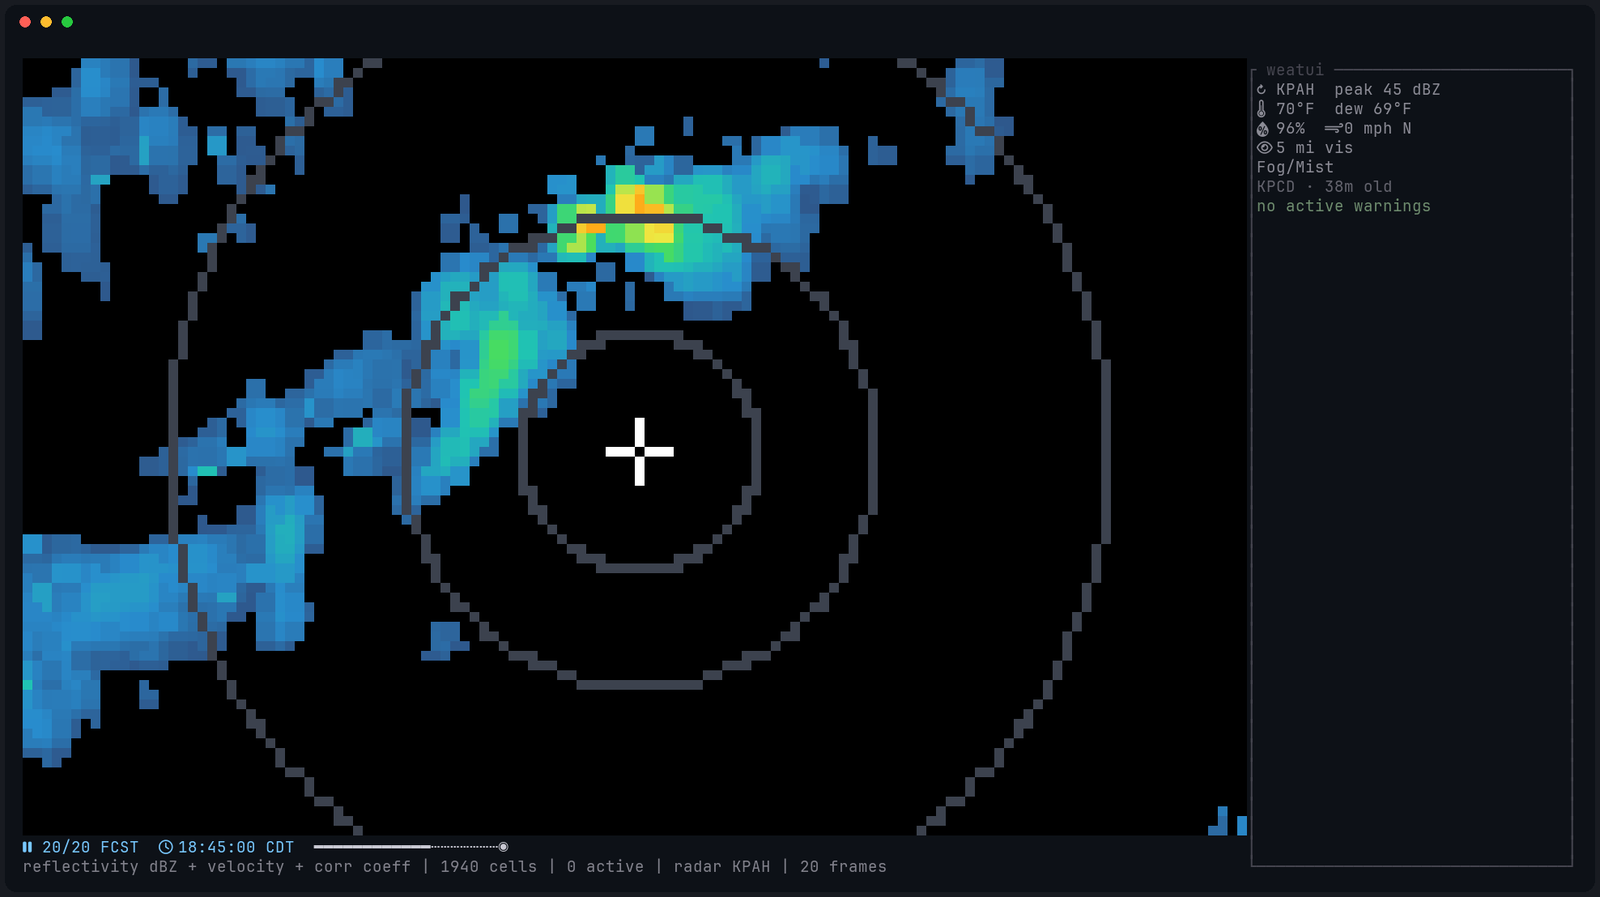
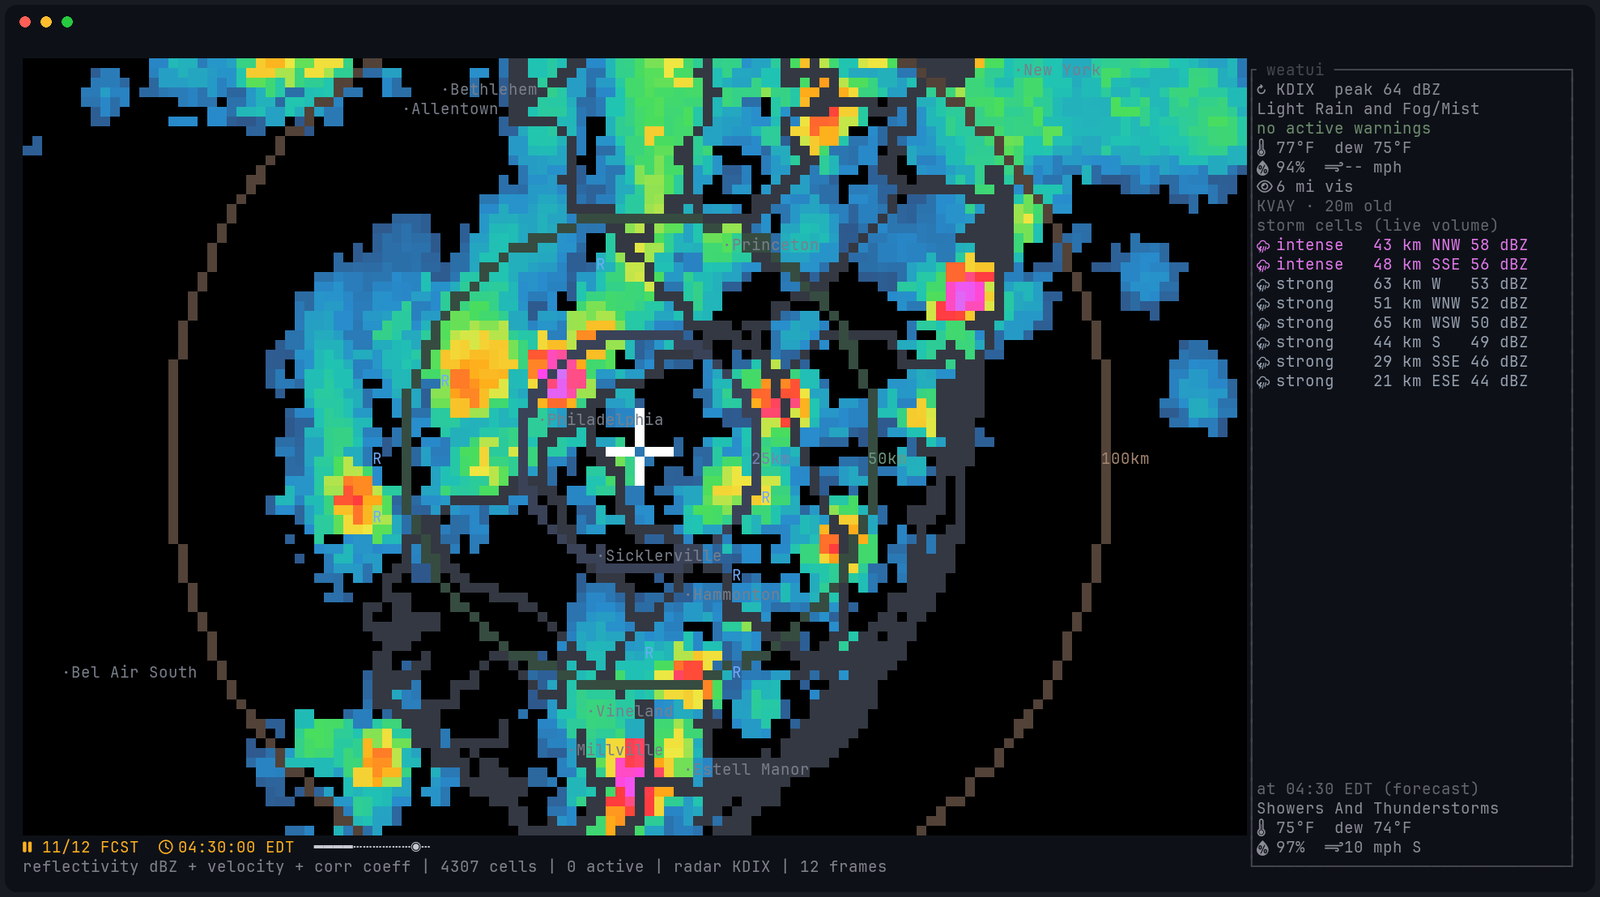
Distance ring colors and labels, ring_km config, recenter, map and hazard screenshots. CLAUDE IS SUPER GAY

diff --git a/src/tui.rs b/src/tui.rs
@@ -11,8 +11,7 @@ use crate::radar::{DbzGrid, RadarField, RadarProduct, fetch};
 use crate::render::colormap::product_rgb;
 use crate::render::hud::Hud;
 use crate::render::overlay::{
-    COUNTY_BORDER, HOME_MARKER, LETHAL_OUTLINE, PixelOverlay, DISTANCE_RING, SEVERE_OUTLINE,
-    WATCH_OUTLINE,
+    COUNTY_BORDER, HOME_MARKER, LETHAL_OUTLINE, PixelOverlay, SEVERE_OUTLINE, WATCH_OUTLINE,
 };
 use crate::render::raster::RadarRaster;
 use crate::render::timeline::Timeline;
@@ -32,7 +31,6 @@ const MIN_SPAN_KM: f64 = 20.0;
 const MAX_SPAN_KM: f64 = 900.0;
 const DEFAULT_SPAN_KM: f64 = 260.0;
 const HUD_WIDTH: u16 = 34;
-const DISTANCE_RING_KM: &[f64] = &[25.0, 50.0, 100.0];
 /// Fetched forecast steps plus the motion-interpolated fill frames between
 /// them: 18 hourly steps synthesize 3 extras per gap.
 const MAX_FORECAST_FRAMES: usize = 72;
@@ -61,7 +59,7 @@ const HELP: &str = "\
    h j k l    pan west/south/north/east
    C-d C-u    pan half a screen
    zi zo      zoom in / out
-   gh         recentre on home
+   gh         recenter on home
 
  TIMELINE
    [ ]        previous / next frame
@@ -146,7 +144,7 @@ pub enum Action {
     PanHalfUp,
     ZoomIn,
     ZoomOut,
-    RecentreHome,
+    RecenterHome,
     FrameBack,
     FrameForward,
     JumpOldest,
@@ -165,7 +163,7 @@ pub fn resolve_key(pending: &mut Option<char>, key: KeyEvent) -> Action {
     if let Some(prefix) = pending.take() {
         return match (prefix, key.code) {
             ('g', KeyCode::Char('g')) => Action::JumpOldest,
-            ('g', KeyCode::Char('h')) => Action::RecentreHome,
+            ('g', KeyCode::Char('h')) => Action::RecenterHome,
             ('z', KeyCode::Char('i')) => Action::ZoomIn,
             ('z', KeyCode::Char('o')) => Action::ZoomOut,
             ('Z', KeyCode::Char('Z')) => Action::Quit,
@@ -222,6 +220,7 @@ pub struct App {
     temp_limits: (f32, f32),
     show_map: bool,
     show_labels: bool,
+    ring_km: Vec<f64>,
     counties: Option<crate::counties::CountyMap>,
     tz: chrono_tz::Tz,
     pending: Option<char>,
@@ -264,6 +263,7 @@ impl App {
             temp_limits: (cfg.render.cold_below_f, cfg.render.hot_above_f),
             show_map: cfg.render.map,
             show_labels: cfg.render.labels,
+            ring_km: cfg.render.ring_km.clone(),
             counties: None,
             tz,
             pending: None,
@@ -302,7 +302,7 @@ impl App {
             Action::PanHalfDown => self.viewport = self.viewport.panned_km(0.0, -step * 4.0),
             Action::ZoomIn => self.viewport = self.viewport.zoomed(0.5, MIN_SPAN_KM, MAX_SPAN_KM),
             Action::ZoomOut => self.viewport = self.viewport.zoomed(2.0, MIN_SPAN_KM, MAX_SPAN_KM),
-            Action::RecentreHome => self.viewport.centre = self.home,
+            Action::RecenterHome => self.viewport.centre = self.home,
             Action::FrameBack => self.ring.step_back(),
             Action::FrameForward => self.ring.step_forward(),
             Action::JumpOldest => self.ring.jump_oldest(),
@@ -517,7 +517,7 @@ impl App {
                 overlay.draw_ring(ring, &self.viewport, COUNTY_BORDER);
             }
         }
-        overlay.draw_distance_rings(self.home, DISTANCE_RING_KM, &self.viewport, DISTANCE_RING);
+        overlay.draw_distance_rings(self.home, &self.ring_km, &self.viewport);
         self.paint_product_overlays(&mut overlay);
         let mut ordered: Vec<_> = self.active.iter().collect();
         ordered.sort_by_key(|a| a.tier);
@@ -593,6 +593,8 @@ impl App {
                 show_cities: self.show_map,
                 show_hazards: self.show_labels,
                 surface_temp_f: self.conditions.as_ref().and_then(|c| c.temp_f),
+                home: self.home,
+                ring_km: &self.ring_km,
             },
             map,
         );
@@ -1243,8 +1245,8 @@ mod tests {
     }
 
     #[test]
-    fn gh_recentres_on_home_without_colliding_with_the_pan_binding() {
-        assert_eq!(press(&[key('g'), key('h')]), Action::RecentreHome);
+    fn gh_recenters_on_home_without_colliding_with_the_pan_binding() {
+        assert_eq!(press(&[key('g'), key('h')]), Action::RecenterHome);
     }
 
     #[test]

diff --git a/src/render/labels.rs b/src/render/labels.rs
@@ -38,6 +38,8 @@ pub struct MapText<'a> {
     pub show_cities: bool,
     pub show_hazards: bool,
     pub surface_temp_f: Option<f32>,
+    pub home: crate::geo::Coords,
+    pub ring_km: &'a [f64],
 }
 
 impl MapText<'_> {
@@ -53,6 +55,34 @@ impl MapText<'_> {
 
 impl Widget for MapText<'_> {
     fn render(self, area: Rect, buf: &mut Buffer) {
+        let km_per_px_ring = self.viewport.km_per_pixel();
+        if km_per_px_ring > 0.0
+            && let Some((hx, hy)) = self.cell_of(self.home, area)
+        {
+            for (i, km) in self.ring_km.iter().filter(|r| **r > 0.0).enumerate() {
+                let r_cols = (km / km_per_px_ring).round() as i64;
+                let x = hx as i64 + r_cols;
+                if x <= hx as i64 || x as u16 >= area.right() {
+                    continue;
+                }
+                let (r, g, b) =
+                    crate::render::overlay::RING_COLORS[i % crate::render::overlay::RING_COLORS.len()];
+                // Ring colors are muted for the lines; the label needs a
+                // brighter shade of the same hue to be readable.
+                buf.set_stringn(
+                    x as u16,
+                    hy,
+                    format!("{km:.0}km"),
+                    (area.right() - x as u16) as usize,
+                    Style::default().fg(Color::Rgb(
+                        (r * 2).min(210),
+                        (g * 2).min(210),
+                        (b * 2).min(210),
+                    )),
+                );
+            }
+        }
+
         if self.show_cities {
             let km_per_px = self.viewport.span_km / self.viewport.width.max(1) as f64;
             let half_lat = self.viewport.height as f64 * km_per_px / 2.0 / 111.2;
@@ -124,6 +154,32 @@ mod tests {
     }
 
     #[test]
+    fn ring_distance_labels_sit_on_their_rings() {
+        let home = Coords { lat: 36.0, lon: -87.0 };
+        let viewport = Viewport::new(home, 120.0, 60, 60);
+        let area = Rect::new(0, 0, 60, 30);
+        let mut buf = Buffer::empty(area);
+        MapText {
+            viewport: &viewport,
+            cells: &[],
+            show_cities: false,
+            show_hazards: false,
+            surface_temp_f: None,
+            home,
+            ring_km: &[25.0, 50.0],
+        }
+        .render(area, &mut buf);
+        let text: String = (0..30)
+            .map(|y| {
+                (0..60).map(|x| buf.cell((x, y)).unwrap().symbol().to_string()).collect::<String>()
+            })
+            .collect::<Vec<_>>()
+            .join("\n");
+        assert!(text.contains("25km"), "{text}");
+        assert!(text.contains("50km"), "{text}");
+    }
+
+    #[test]
     fn rain_labels_as_snow_below_freezing_surface_temps() {
         assert_eq!(hazard_letter(Hazard::Rain, Some(70.0)), 'R');
         assert_eq!(hazard_letter(Hazard::Rain, Some(30.0)), 'S');
@@ -144,6 +200,8 @@ mod tests {
             show_cities: false,
             show_hazards: true,
             surface_temp_f: Some(70.0),
+            home: Coords { lat: 0.0, lon: 0.0 },
+            ring_km: &[],
         }
         .render(area, &mut buf);
         let row: String =
@@ -164,6 +222,8 @@ mod tests {
             show_cities: false,
             show_hazards: false,
             surface_temp_f: None,
+            home: Coords { lat: 0.0, lon: 0.0 },
+            ring_km: &[],
         }
         .render(area, &mut buf);
         assert!(
@@ -184,6 +244,8 @@ mod tests {
             show_cities: true,
             show_hazards: false,
             surface_temp_f: None,
+            home: Coords { lat: 0.0, lon: 0.0 },
+            ring_km: &[],
         }
         .render(area, &mut buf);
         let text: String = (0..30)

diff --git a/src/config.rs b/src/config.rs
@@ -173,6 +173,9 @@ pub struct Render {
     /// Hazard letters beside storm cell markers.
     #[serde(default = "default_true")]
     pub labels: bool,
+    /// Distance ring radii from home, km.
+    #[serde(default = "default_rings")]
+    pub ring_km: Vec<f64>,
 }
 
 fn default_poll_interval() -> u64 {
@@ -220,6 +223,9 @@ fn default_hot_above() -> f32 {
 }
 fn default_true() -> bool {
     true
+}
+fn default_rings() -> Vec<f64> {
+    vec![25.0, 50.0, 100.0]
 }
 
 impl Default for Alerts {
@@ -273,6 +279,7 @@ impl Default for Render {
             hot_above_f: default_hot_above(),
             map: true,
             labels: true,
+            ring_km: default_rings(),
         }
     }
 }
@@ -347,6 +354,18 @@ impl Config {
 #[cfg(test)]
 mod tests {
     use super::*;
+
+    #[test]
+    fn ring_radii_default_and_parse() {
+        let cfg = Config::parse("[location]\nzip = \"73019\"\n", "/tmp/c.toml").unwrap();
+        assert_eq!(cfg.render.ring_km, vec![25.0, 50.0, 100.0]);
+        let custom = Config::parse(
+            "[location]\nzip = \"73019\"\n\n[render]\nring_km = [10.0, 30.0]\n",
+            "/tmp/c.toml",
+        )
+        .unwrap();
+        assert_eq!(custom.render.ring_km, vec![10.0, 30.0]);
+    }
 
     #[test]
     fn map_and_label_layers_default_on_and_parse_off() {

diff --git a/src/render/overlay.rs b/src/render/overlay.rs
@@ -13,7 +13,8 @@ pub const LETHAL_OUTLINE: Rgb = (255, 64, 64);
 pub const SEVERE_OUTLINE: Rgb = (255, 176, 32);
 pub const WATCH_OUTLINE: Rgb = (120, 200, 255);
 pub const HOME_MARKER: Rgb = (255, 255, 255);
-pub const DISTANCE_RING: Rgb = (60, 66, 78);
+/// Muted, mutually distinct: one per ring, cycling if more are configured.
+pub const RING_COLORS: [Rgb; 3] = [(58, 66, 88), (54, 76, 64), (82, 66, 56)];
 pub const COUNTY_BORDER: Rgb = (52, 56, 66);
 
 #[derive(Debug, Clone)]
@@ -124,14 +125,14 @@ impl PixelOverlay {
         centre: Coords,
         radii_km: &[f64],
         viewport: &Viewport,
-        rgb: Rgb,
     ) {
         let kpp = viewport.km_per_pixel();
         if kpp <= 0.0 {
             return;
         }
         let (cx, cy) = viewport.project_to_nearest_pixel(centre);
-        for radius_km in radii_km.iter().copied().filter(|r| *r > 0.0) {
+        for (i, radius_km) in radii_km.iter().copied().filter(|r| *r > 0.0).enumerate() {
+            let rgb = RING_COLORS[i % RING_COLORS.len()];
             let radius_px = radius_km / kpp;
             if radius_px < 2.0 || radius_px > self.width as f64 * 2.0 {
                 continue;

diff --git a/README.md b/README.md
@@ -107,6 +107,7 @@ cold_below_f = 32.0  # temperatures at/below render blue in the HUD
 hot_above_f = 95.0   # temperatures at/above render red
 map = true           # county borders + city names on the radar view
 labels = true        # hazard letters beside storm cells
+ring_km = [25.0, 50.0, 100.0]  # distance ring radii from home
 ```
 
 ## Run
@@ -128,7 +129,7 @@ HRRR predicts.*
 | `h` `j` `k` `l` | pan west / south / north / east |
 | `C-d` `C-u` | pan half a screen |
 | `zi` `zo` | zoom in / out |
-| `gh` | recentre on home |
+| `gh` | recenter on home |
 | `[` `]` | previous / next frame |
 | `gg` / `G` | oldest frame / newest (follow live) |
 | `space` | play / pause the loop |
